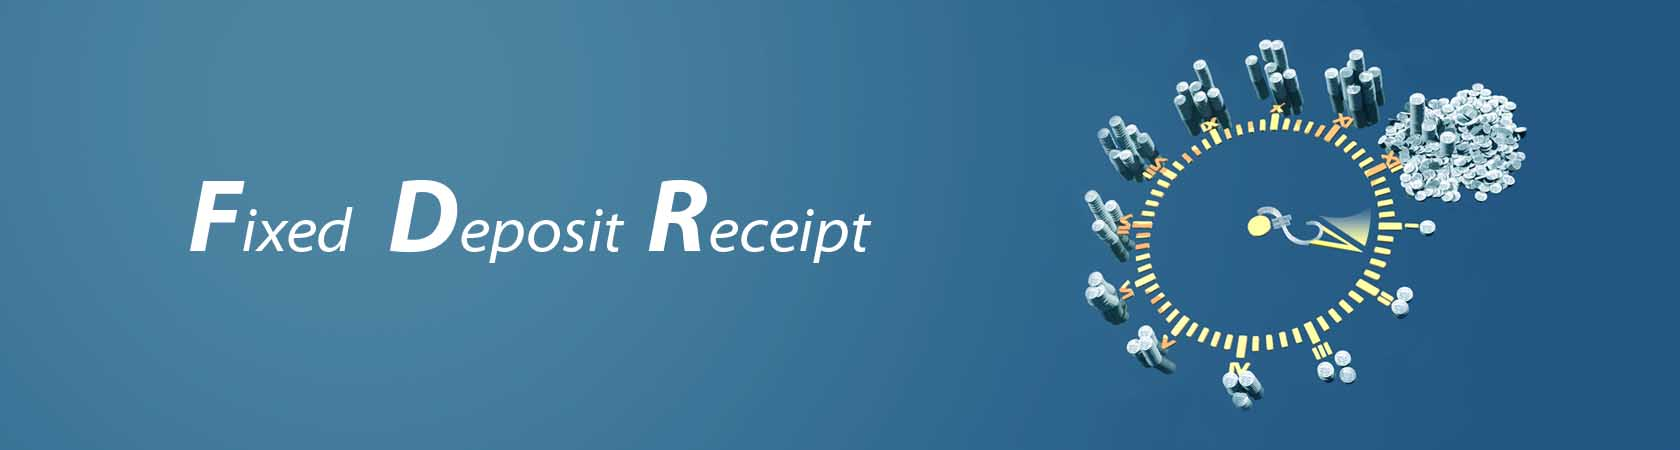
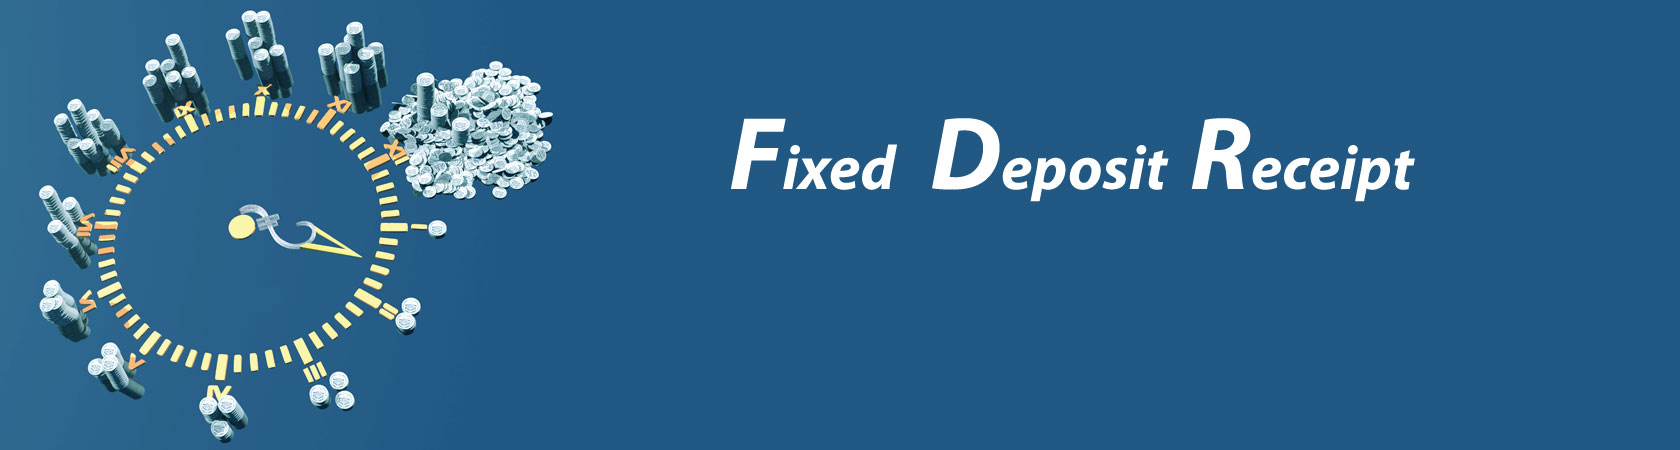
some change css, landing page

diff --git a/resource/front_end/css/style.css b/resource/front_end/css/style.css
@@ -1313,9 +1313,10 @@ a .maximizer_landing_button{
     text-align: center;
     font-size: 16px;
 }
-a .fdr_landing_button{
+a .fdr_landing_button {
     color: #000;
     font-weight: bold;
+    float: right;
 }
 #availableOffer1 {
 	border: 1px solid #d09f5c;
@@ -1362,7 +1363,7 @@ a .fdr_landing_button{
 }
 .fdr_loan_icon {
     position: relative;
-    margin-top: 315px;
+    margin-top: 382px;
 }
 .millionaire_loan_icon {
     position: relative;
@@ -2235,13 +2236,15 @@ a:hover {
 
 }
 .fdr_header_text {
-    top: 275px;
+    top: 270px;
     position: relative;
-    margin-left: 223px;
+    margin-right: 223px;
+    float: right;
 }
 .fdr_header_text p{
     font-size:18px;
     margin-bottom: 25px;
+    color: #d7d7d7;
 }
 .fdr_link {
     margin: 37px 16px;
@@ -2388,10 +2391,15 @@ a:hover {
     background-size: cover;
 
 }
-.dps_header_text {
-    top: 275px;
+.dps_loan_icon {
     position: relative;
-    margin-left: 224px;
+    margin-top: 388px;
+}
+.dps_header_text {
+    top: 220px;
+    position: relative;
+    margin-right: 224px;
+    float: right;
 }
 .dps_header_text p{
     font-size:18px;
@@ -2559,9 +2567,10 @@ a:hover {
     text-align: center;
     font-size: 16px;
 }
-a .dps_landing_button{
+a .dps_landing_button {
     color: #000;
     font-weight: bold;
+    float: right;
 }
 
 /* DPS End */
@@ -2776,6 +2785,30 @@ a .debit_card_button.flash-button{
     margin-top: 108px;
     padding-top: 14px;
 
+}
+/* for monthly benefit */
+#monthly_benefit_header_part{
+    background-image: url(../images/Monthly-Benefit-Scheme-Landing-page-Banner.jpg);
+    width: 100%;
+    height: 450px;
+    background-position: center center;
+    background-repeat: no-repeat;
+    background-size: cover;
+}
+.month_benefit_header_text {
+    text-align: right;
+    top: 278px;
+    position: relative;
+    float: right;
+    margin-right: 220px;
+}
+.month_benefit_header_text p {
+    color: #2697D5;
+    font-size: 18px;
+    font-style: italic;
+    margin-bottom: 26px;
+    font-weight: bold;
+    text-shadow: 1px 1px #fff;
 }
 /* card_box end */
 /* popular_artical start */

diff --git a/application/views/front_end/dps_landing.php b/application/views/front_end/dps_landing.php
@@ -2,10 +2,10 @@
 	<section id="dps_header_part">
 		<div class="dps_header_text">
 			<p>DPS comaparison made easy</p>
-                        <a href="<?php echo base_url(); ?>en/all_dps"><span class="dps_landing_button flash-button">Start Comparing</span></a>
+            <a href="<?php echo base_url(); ?>en/all_dps"><span class="dps_landing_button flash-button">Start Comparing</span></a>
 		</div>
 		<div class="container">
-			<div class="fdr_loan_icon">
+			<div class="dps_loan_icon">
 				<div class="All_cradit_card">
 					<div class="col-md-3 col-sm-3 nopadding">
 						<a class="land_modal" data-toggle="modal" data-target=".bs-example-modal-lg"><div class="All_card">

diff --git a/application/views/front_end/monthly_benefit_landing.php b/application/views/front_end/monthly_benefit_landing.php
@@ -10,10 +10,9 @@
 </style>
 <!-- header part start -->
 <section id="monthly_benefit_header_part">
-    <div class="mony_max_header_text">
-        <h3>Select Monthly Benefit Scheme</h3>
+    <div class="month_benefit_header_text">
         <p>Monthly Benefit Scheme comparison made easy</p>
-        <p><a class="btn btn-primary btn-lg" href="<?php echo base_url();?>en/all_monthly_benefit" role="button">Start Comparing</a></p>
+        <a href="<?php echo base_url(); ?>en/monthly_benefit"><span class="dps_landing_button flash-button">Start Comparing</span></a>
     </div>
     <div class="container">
         <div class="home_loan_icon">
